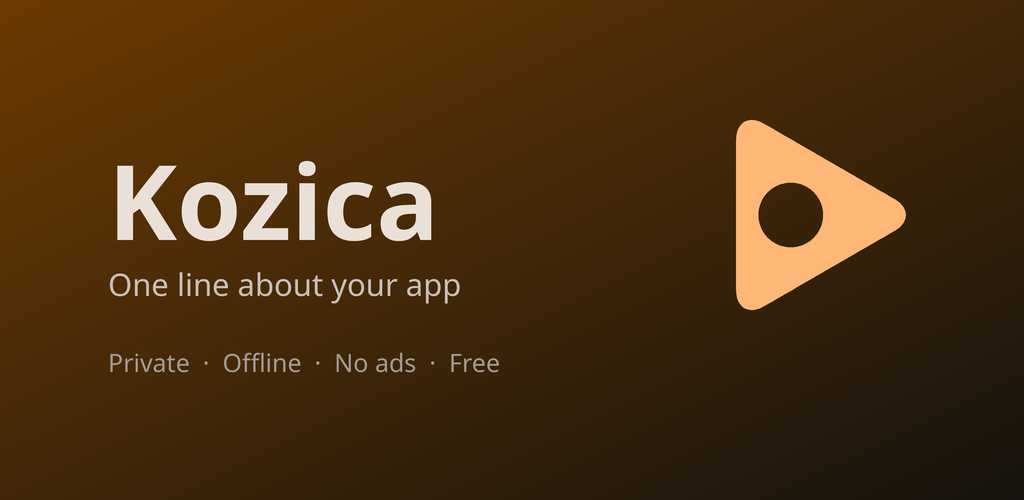
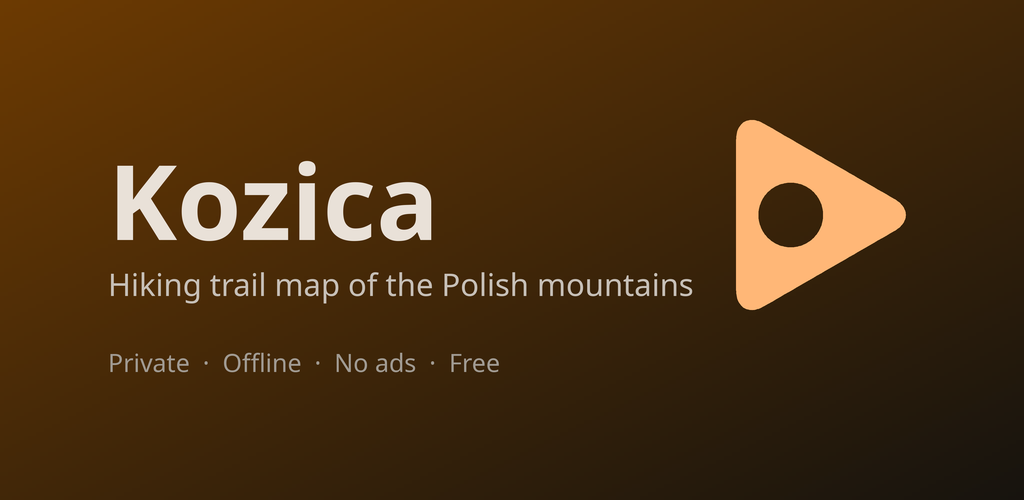
fix: give the feature graphic Kozica's own tagline

Changed region(s): [[0.0938, 0.54, 0.6875, 0.6]]

diff --git a/art/make-feature-graphic.py b/art/make-feature-graphic.py
@@ -34,7 +34,7 @@ import mark
 
 # The three strings this graphic is *about*. Edit them; everything else is layout.
 APP_NAME = "Kozica"
-TAGLINE = "One line about your app"
+TAGLINE = "Hiking trail map of the Polish mountains"
 FEATURES = "Private  ·  Offline  ·  No ads  ·  Free"
 
 ART = Path(__file__).parent
